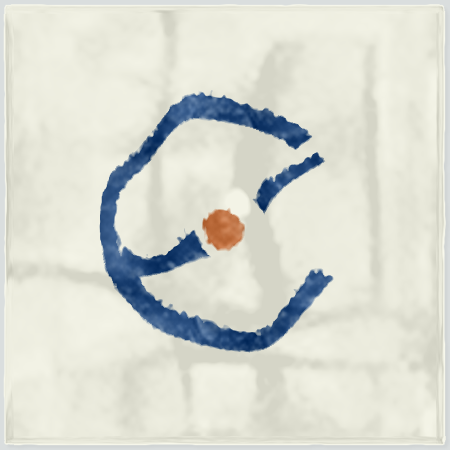
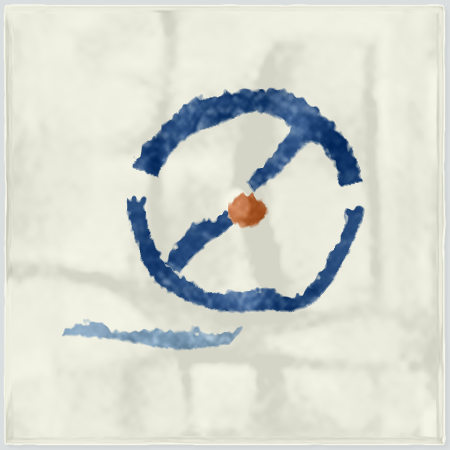
Redraw abstract wheel in motion

Changed region(s): [[0.1244, 0.1867, 0.8089, 0.8089]]

diff --git a/tools/bake.py b/tools/bake.py
@@ -332,20 +332,23 @@ def generated(painter, photos, count, seed=2026):
 
 
 def wheel(painter, tile_file):
-    """An original abstract wheel, painted and glazed like the library marks."""
+    """A rolling wheel suggested by uneven arcs and a short trailing mark."""
     clay, ink, accent = GLAZES['cream']
-    center = SIDE // 2
-    rim = 124
+    cx, cy, rim = 247, 206, 116
     lines = Image.new('RGBA', (SIDE, SIDE))
     draw = ImageDraw.Draw(lines)
-    box = (center - rim, center - rim, center + rim, center + rim)
-    draw.arc(box, 27, 313, fill='white', width=23)
-    draw.line([(128, 276), (172, 251), (198, 238)], fill='white', width=19, joint='curve')
-    draw.line([(257, 209), (286, 187), (322, 158)], fill='white', width=16, joint='curve')
-    art = painter.brushed(lines, ink, seed=614)
+    box = (cx - rim, cy - rim, cx + rim, cy + rim)
+    draw.arc(box, 196, 346, fill='white', width=26)
+    draw.arc(box, 1, 181, fill='white', width=17)
+    draw.line([(179, 274), (211, 240), (232, 222)], fill='white', width=18, joint='curve')
+    draw.line([(258, 194), (283, 173), (318, 133)], fill='white', width=14, joint='curve')
+    trail = Image.new('RGBA', lines.size)
+    ImageDraw.Draw(trail).polygon([(67, 340), (105, 332), (151, 328), (206, 329),
+                                  (240, 325), (227, 338), (153, 344), (105, 345)], fill='white')
+    art = painter.brushed(trail, '#7796b0', seed=73)
+    art.alpha_composite(painter.brushed(lines, ink, seed=316))
     hub = Image.new('RGBA', art.size)
-    r = 17
-    ImageDraw.Draw(hub).ellipse((center - r, center - r, center + r, center + r), fill='white')
+    ImageDraw.Draw(hub).ellipse((cx - 15, cy - 14, cx + 15, cy + 14), fill='white')
     art.alpha_composite(painter.brushed(hub, accent, seed=528))
     with Image.open(tile_file) as image:
         surface = glazed_picture(photo_layers(image.convert('RGBA')), clay, art)
